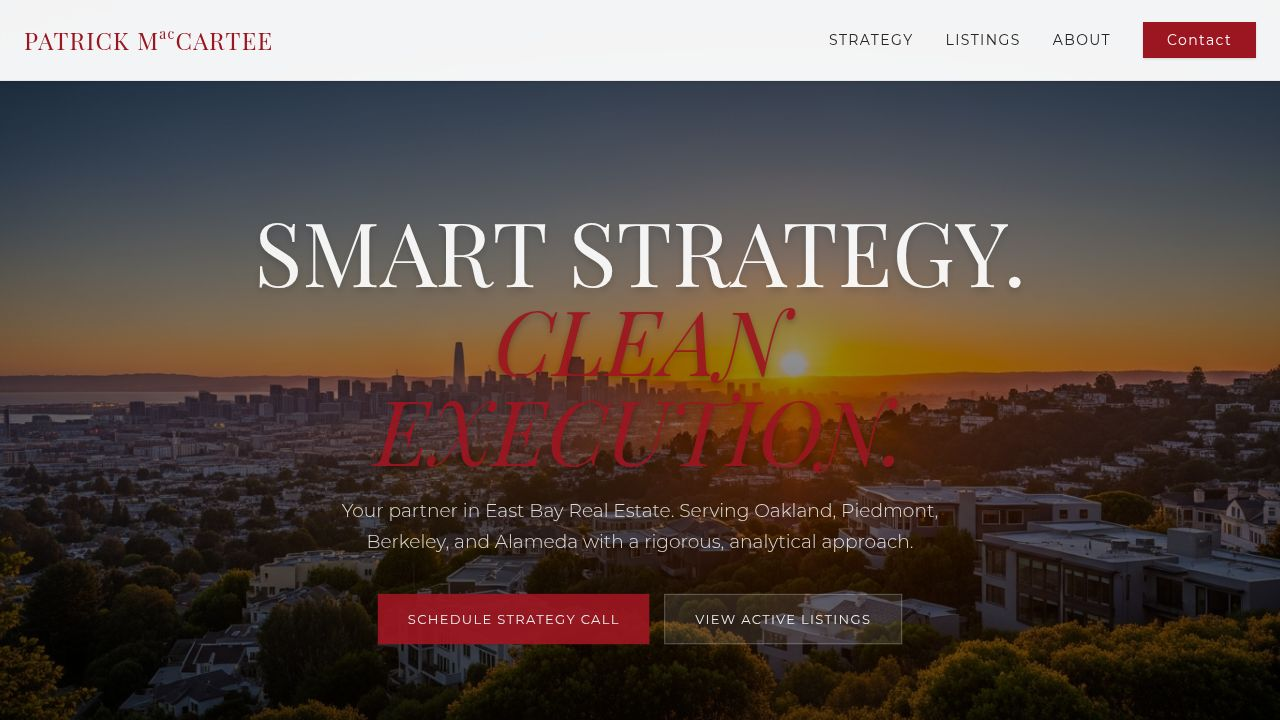
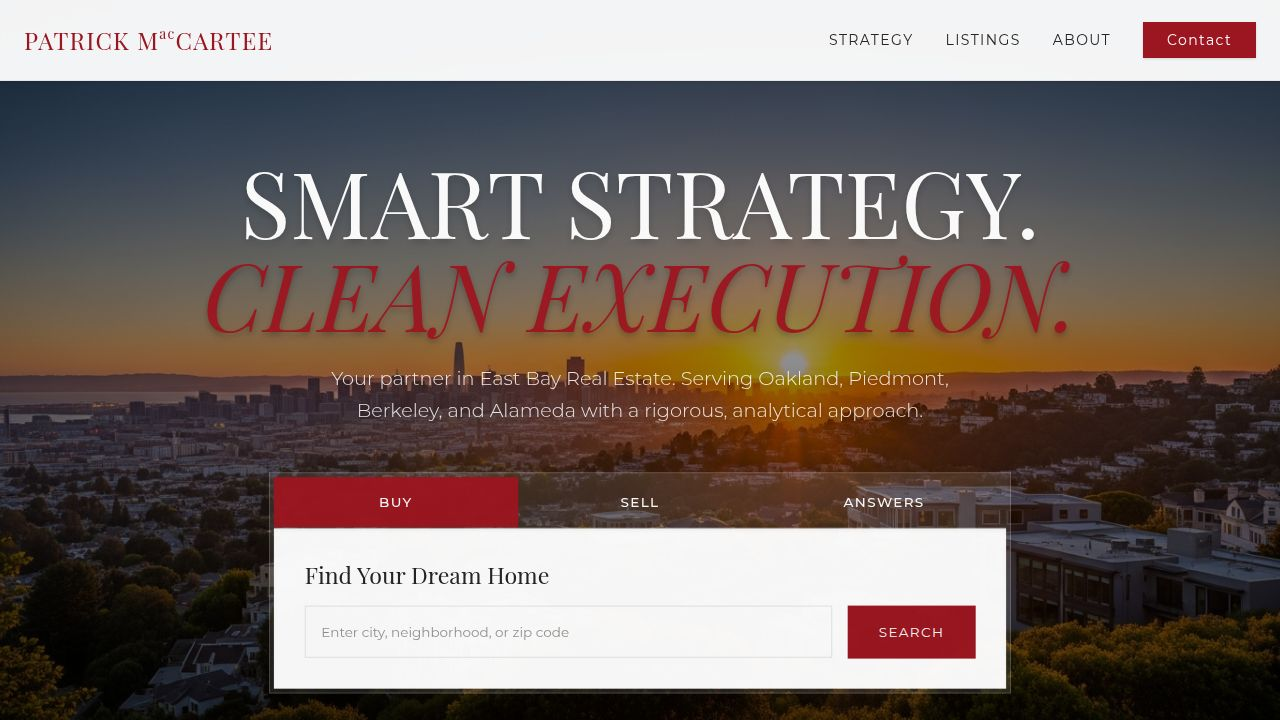
Add a tabbed interface with buy, sell, and answers forms to the hero section
Integrates a new tabbed component into the Hero section, utilizing React's `useState` hook for managing the active tab state. The component renders three distinct tabs: "Buy", "Sell", and "Answers", each controlling the visibility of a corresponding form input section within a styled backdrop.

Replit-Commit-Author: Agent
Replit-Commit-Session-Id: ff7549c9-f61c-4f4d-9c36-a697699e1409
Replit-Commit-Checkpoint-Type: full_checkpoint
Replit-Commit-Event-Id: c466b854-a2d0-4d73-9822-1cd964f0c07c
Replit-Commit-Screenshot-Url: https://storage.googleapis.com/screenshot-production-us-central1/fb16415f-bfb2-4872-bae4-465ef85a9982/ff7549c9-f61c-4f4d-9c36-a697699e1409/GCxMR6z
Replit-Helium-Checkpoint-Created: true

Changed region(s): [[0.1562, 0.2139, 0.8438, 0.9778]]

diff --git a/client/src/components/Hero.tsx b/client/src/components/Hero.tsx
@@ -1,27 +1,95 @@
+import { useState } from "react";
 import heroImg from "../assets/images/hero.png";
 
 export default function Hero() {
+  const [activeTab, setActiveTab] = useState("buy");
+
   return (
     <section className="relative h-screen flex items-center justify-center pt-20">
       <div className="absolute inset-0 z-0">
         <img src={heroImg} alt="Oakland Skyline" className="w-full h-full object-cover object-center" />
         <div className="absolute inset-0 bg-gradient-to-b from-black/60 via-black/40 to-black/60"></div>
       </div>
-      <div className="relative z-10 text-center px-6 max-w-4xl mx-auto mt-12 animate-in fade-in zoom-in duration-1000">
-        <h1 className="text-5xl md:text-7xl lg:text-8xl text-white font-serif mb-6 leading-none drop-shadow-lg">
+      <div className="relative z-10 w-full px-6 max-w-5xl mx-auto mt-12 animate-in fade-in zoom-in duration-1000 flex flex-col items-center">
+        <h1 className="text-5xl md:text-7xl lg:text-8xl text-white font-serif mb-6 leading-none drop-shadow-lg text-center">
           SMART STRATEGY.<br />
           <span className="italic text-primary drop-shadow-md">CLEAN EXECUTION.</span>
         </h1>
-        <p className="text-lg md:text-xl text-white/90 mb-10 max-w-2xl mx-auto font-light leading-relaxed drop-shadow-sm">
+        <p className="text-lg md:text-xl text-white/90 mb-12 max-w-2xl text-center mx-auto font-light leading-relaxed drop-shadow-sm">
           Your partner in East Bay Real Estate. Serving Oakland, Piedmont, Berkeley, and Alameda with a rigorous, analytical approach.
         </p>
-        <div className="flex flex-col sm:flex-row gap-4 justify-center">
-          <button className="bg-primary text-white px-8 py-4 text-sm tracking-widest uppercase hover:bg-white hover:text-primary transition-all duration-300 shadow-lg">
-            Schedule Strategy Call
-          </button>
-          <button className="bg-white/10 backdrop-blur-md text-white border border-white/30 px-8 py-4 text-sm tracking-widest uppercase hover:bg-white hover:text-primary transition-all duration-300 shadow-lg">
-            View Active Listings
-          </button>
+        
+        <div className="w-full max-w-3xl bg-white/10 backdrop-blur-md p-1 border border-white/20 shadow-2xl">
+          <div className="flex border-b border-white/20">
+            <button 
+              onClick={() => setActiveTab('buy')}
+              className={`flex-1 py-4 text-sm tracking-widest uppercase font-medium transition-colors ${activeTab === 'buy' ? 'bg-primary text-white' : 'text-white hover:bg-white/10'}`}
+            >
+              Buy
+            </button>
+            <button 
+              onClick={() => setActiveTab('sell')}
+              className={`flex-1 py-4 text-sm tracking-widest uppercase font-medium transition-colors ${activeTab === 'sell' ? 'bg-primary text-white' : 'text-white hover:bg-white/10'}`}
+            >
+              Sell
+            </button>
+            <button 
+              onClick={() => setActiveTab('answers')}
+              className={`flex-1 py-4 text-sm tracking-widest uppercase font-medium transition-colors ${activeTab === 'answers' ? 'bg-primary text-white' : 'text-white hover:bg-white/10'}`}
+            >
+              Answers
+            </button>
+          </div>
+          
+          <div className="bg-white p-6 sm:p-8 shadow-inner">
+            {activeTab === 'buy' && (
+              <div className="animate-in fade-in duration-500">
+                <h3 className="text-2xl font-serif text-foreground mb-4">Find Your Dream Home</h3>
+                <div className="flex flex-col sm:flex-row gap-4">
+                  <input 
+                    type="text" 
+                    placeholder="Enter city, neighborhood, or zip code" 
+                    className="flex-1 border border-border p-4 text-sm focus:outline-none focus:border-primary transition-colors"
+                  />
+                  <button className="bg-primary text-white px-8 py-4 text-sm tracking-widest uppercase hover:bg-primary/90 transition-colors">
+                    Search
+                  </button>
+                </div>
+              </div>
+            )}
+            
+            {activeTab === 'sell' && (
+              <div className="animate-in fade-in duration-500">
+                <h3 className="text-2xl font-serif text-foreground mb-4">Discover Your Home's Value</h3>
+                <div className="flex flex-col sm:flex-row gap-4">
+                  <input 
+                    type="text" 
+                    placeholder="Enter your property address" 
+                    className="flex-1 border border-border p-4 text-sm focus:outline-none focus:border-primary transition-colors"
+                  />
+                  <button className="bg-foreground text-white px-8 py-4 text-sm tracking-widest uppercase hover:bg-foreground/90 transition-colors">
+                    Get Estimate
+                  </button>
+                </div>
+              </div>
+            )}
+            
+            {activeTab === 'answers' && (
+              <div className="animate-in fade-in duration-500">
+                <h3 className="text-2xl font-serif text-foreground mb-4">Expert Real Estate Advice</h3>
+                <div className="flex flex-col sm:flex-row gap-4">
+                  <input 
+                    type="text" 
+                    placeholder="Ask a question about the East Bay market..." 
+                    className="flex-1 border border-border p-4 text-sm focus:outline-none focus:border-primary transition-colors"
+                  />
+                  <button className="bg-primary text-white px-8 py-4 text-sm tracking-widest uppercase hover:bg-primary/90 transition-colors">
+                    Ask Patrick
+                  </button>
+                </div>
+              </div>
+            )}
+          </div>
         </div>
       </div>
     </section>
